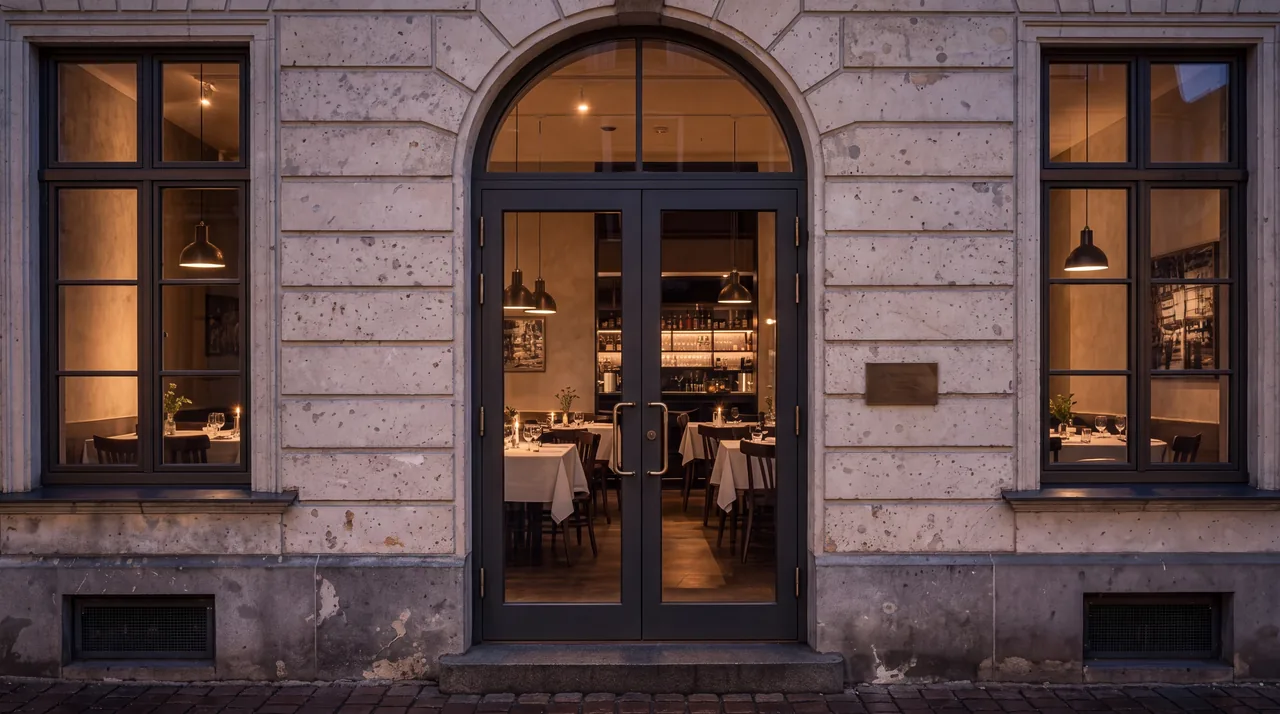
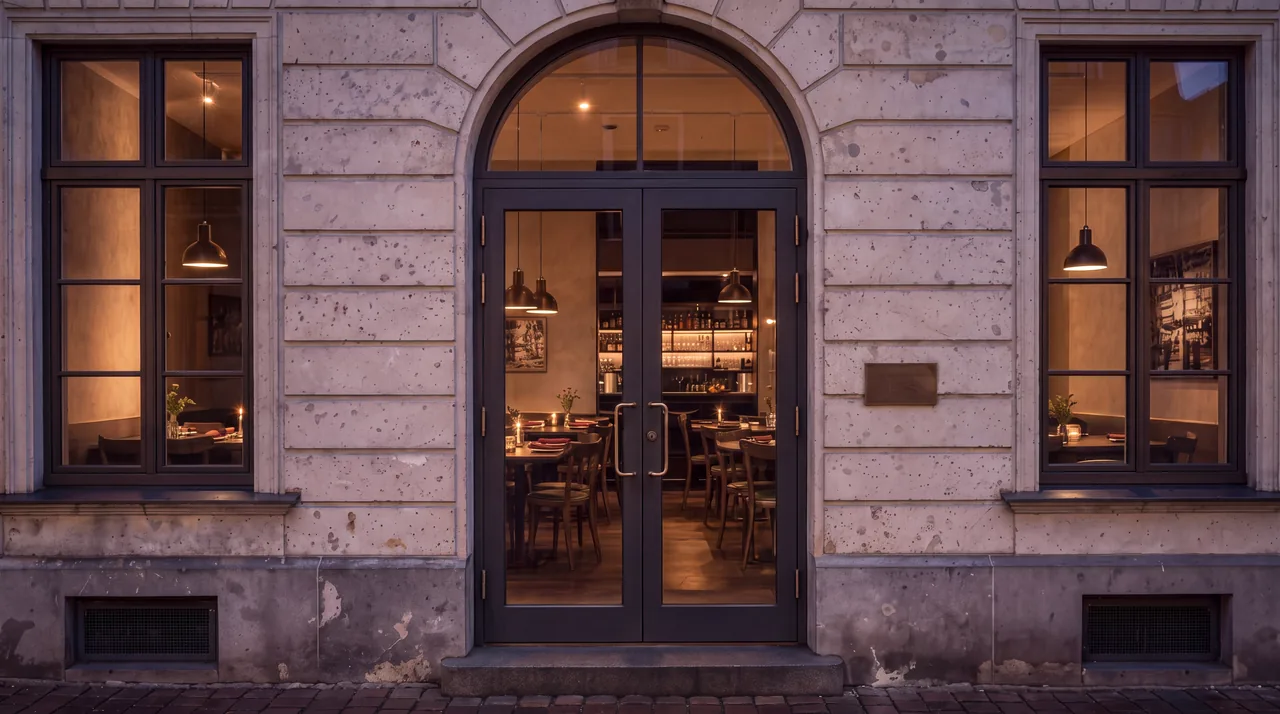
Audit pass: new kitchen photo, night finale, shorter dish→menu, tablecloth consistency, polish
Claude-Session: https://claude.ai/code/session_011vqFLFDv7vsNPGYrLaF2GH

diff --git a/main.js b/main.js
@@ -10,7 +10,7 @@
    door: the glass opening of the entrance, as seen in each photo
    plate: bounding box of the cut-out dish inside the table photo   */
 const ART = window.VESPER_ART || {
-  ext:   { w: 4096, h: 2304, door: { x: .4375, y: .272, w: .130, h: .453 }, arch: .245 },
+  ext:   { w: 5504, h: 3072, door: { x: .4375, y: .272, w: .130, h: .453 }, arch: .245 },
   door:  { w: 5504, h: 3072, door: { x: .369,  y: .054, w: .261, h: .842 }, arch: .222 },
   table: { w: 2528, h: 1696, plate:{ x: .1576, y: .3416, w: .6990, h: .5766 } },
 };
@@ -68,10 +68,11 @@ function status() {
   const h = +parts.hour, open = ['Tue', 'Wed', 'Thu', 'Fri', 'Sat'];
   const today = parts.weekday, yesterday = { Sun: 'Sat', Mon: 'Sun', Tue: 'Mon', Wed: 'Tue', Thu: 'Wed', Fri: 'Thu', Sat: 'Fri' }[today];
   const time = `${parts.hour}:${parts.minute}`;
+  const short = innerWidth < 761;
   let msg;
   if ((open.includes(today) && h >= 18) || (open.includes(yesterday) && h < 1)) msg = `Riga ${time} · <span style="color:var(--amber)">●</span> Open now`;
-  else if (open.includes(today)) msg = `Riga ${time} · Doors open tonight at 18:00`;
-  else msg = `Riga ${time} · Closed tonight · Opens Tuesday, 18:00`;
+  else if (open.includes(today)) msg = short ? `Riga ${time} · Open from 18:00` : `Riga ${time} · Doors open tonight at 18:00`;
+  else msg = short ? `Riga ${time} · Opens Tue, 18:00` : `Riga ${time} · Closed tonight · Opens Tuesday, 18:00`;
   el.innerHTML = msg;
 }
 
@@ -190,36 +191,36 @@ function table(p, t) {
   const menuC = mobile ? { x: vw * .5, y: vh * .72 } : { x: vw * .73, y: vh * .52 };
   const menuS = mobile ? .62 : .55;
 
-  // 0 → .1  framed image opens to full bleed
-  const open = easeOut(map(p, 0, .1));
+  // One continuous move, ~2 viewport heights of scrolling in total:
+  // 0 → .14 frame opens · 0 → .30 camera approaches · .12 → .36 room falls away, plate lifts
+  // .30 → .56 the dish holds (copy + depth) · .56 → .80 plate settles into the menu · .80 → 1 menu opening
+  const open = easeOut(map(p, 0, .14));
   const ix = lerp(mobile ? 6 : 16, 0, open), iy = lerp(mobile ? 14 : 13, 0, open);
   T.cam.style.clipPath = RM ? 'none' : `inset(${iy}vh ${ix}vw ${iy}vh ${ix}vw)`;
 
-  // .04 → .42  the camera walks toward the plate (never uncovering the frame)
-  const a = ease(map(p, .04, .42));
+  const a = ease(map(p, 0, .3));
   const Z = RM ? 1 : lerp(1, PUSH(), a);
   let tx = lerp(P.x, heroC.x, a) - P.x * Z, ty = lerp(P.y, heroC.y, a) - P.y * Z;
   tx = clamp(tx, vw - vw * Z, 0); ty = clamp(ty, vh - vh * Z, 0);
   const F = { x: tx + P.x * Z, y: ty + P.y * Z };
   T.cam.style.transform = RM ? 'none' : camT(P, F, Z);
 
-  // label
-  const lo = map(p, .015, .06) * (1 - map(p, .14, .2));
+  // label: already readable as the table arrives, gone before the plate lifts
+  const lo = 1 - map(p, .06, .13);
   T.label.style.opacity = lo;
-  T.label.style.transform = `translate3d(0, ${(1 - map(p, .015, .08)) * 24}px, 0)`;
-  T.label.classList.toggle('is-in', p > .015 && p < .2);
+  T.label.style.transform = `translate3d(0, ${-map(p, .06, .13) * 16}px, 0)`;
 
   // the room falls away
-  const fall = map(p, .34, .5);
-  T.shade.style.opacity = RM ? map(p, .3, .45) : fall;
-  T.cam.style.filter = fall > 0 && fall < 1 && !RM ? `blur(${fall * 10}px)` : '';
-  T.cam.style.opacity = 1 - map(p, .48, .52);
+  const fall = map(p, .14, .32);
+  T.shade.style.opacity = fall;
+  T.cam.style.filter = fall > 0 && fall < 1 && !RM ? `blur(${fall * 8}px)` : '';
+  T.cam.style.opacity = 1 - map(p, .3, .34);
 
   // the dish: glued to the photograph, then it lifts and becomes the object
   const glued = { x: F.x + (R0.x - P.x) * Z, y: F.y + (R0.y - P.y) * Z, w: R0.w * Z, h: R0.h * Z };
   let rect = glued;
-  const lift = ease(map(p, .38, .6));
-  const go = ease(map(p, .74, .86));
+  const lift = ease(map(p, .12, .36));
+  const go = ease(map(p, .56, .8));
   if (go > 0) {
     const w = hero.w * lerp(1.03, menuS, go), h = hero.h * lerp(1.03, menuS, go);
     const cx = lerp(heroC.x, menuC.x, go), cy = lerp(heroC.y - hero.h * .03, menuC.y, go);
@@ -230,15 +231,15 @@ function table(p, t) {
     const cx = lerp(glued.x + glued.w / 2, heroC.x, lift), cy = lerp(glued.y + glued.h / 2, heroC.y - hero.h * .03, lift);
     rect = { x: cx - w / 2, y: cy - h / 2, w, h };
   }
-  const float = RM ? 0 : Math.sin(t * .0009) * 4 * lift * (1 - go);
+  const float = RM ? 0 : Math.sin(t * .0009) * 3 * lift * (1 - go);
   if (RM) {
-    const k = p < .74 ? 1 : menuS, w = hero.w * k, h = hero.h * k, c = p < .74 ? heroC : menuC;
+    const k = p < .56 ? 1 : menuS, w = hero.w * k, h = hero.h * k, c = p < .56 ? heroC : menuC;
     rect = { x: c.x - w / 2, y: c.y - h / 2, w, h };
   }
   T.dish.style.transform = `translate3d(${rect.x}px, ${rect.y + float}px, 0) scale(${rect.w / hero.w})`;
-  T.dish.style.opacity = RM ? map(p, .35, .45) : (p > .3 ? 1 : 0);
-  T.shadow.style.opacity = map(p, .36, .52) * .9;
-  T.dish.dataset.live = p > .3 && p < .995 ? '1' : '0';
+  T.dish.style.opacity = RM ? map(p, .2, .3) : (p > .1 ? 1 : 0);
+  T.shadow.style.opacity = map(p, .16, .34) * .9;
+  T.dish.dataset.live = p > .1 && p < .995 ? '1' : '0';
 
   // subtle physical response to the cursor (auto-drift on touch)
   if (!RM) {
@@ -252,17 +253,17 @@ function table(p, t) {
   }
 
   // copy
-  const co = map(p, .5, .58) * (1 - map(p, .72, .77));
+  const co = map(p, .28, .36) * (1 - map(p, .54, .6));
   T.copy.style.opacity = co;
-  T.copy.style.transform = mobile ? `translate3d(0, ${(1 - map(p, .5, .6)) * 20}px, 0)` : `translate3d(0, calc(-50% + ${(1 - map(p, .5, .6)) * 20}px), 0)`;
-  T.copy.classList.toggle('is-in', p > .5 && p < .76);
+  T.copy.style.transform = mobile ? `translate3d(0, ${(1 - map(p, .28, .38)) * 18}px, 0)` : `translate3d(0, calc(-50% + ${(1 - map(p, .28, .38)) * 18}px), 0)`;
+  T.copy.classList.toggle('is-in', p > .28 && p < .6);
   T.copy.classList.toggle('is-live', co > .6);
 
-  const mo = map(p, .82, .9);
+  const mo = map(p, .66, .8);
   T.open.style.opacity = mo;
-  T.open.classList.toggle('is-in', p > .82);
+  T.open.classList.toggle('is-in', p > .66);
 
-  steam && steam.active(p > .45 && p < .8 ? lift * (1 - go) : 0);
+  steam && steam.active(p > .3 && p < .64 ? lift * (1 - go) : 0);
 }
 
 /* ==========================================================
@@ -406,13 +407,13 @@ function plateParallax() {
 /* ==========================================================
    NIGHT + OUTRO
    ========================================================== */
-const nightBg = $('[data-night-bg] img'), outroImg = $('[data-outro-img] img'), night = $('#night');
+const nightBg = $('[data-night-bg] img'), outroImg = $('[data-outro-img] img'), night = $('#reserve');
 function nightFx() {
   if (RM) return;
   const r = night.getBoundingClientRect();
   if (r.bottom > 0 && r.top < vh) nightBg.style.transform = `translate3d(0, ${((r.top + r.height / 2) - vh / 2) * -.08}px, 0) scale(1.06)`;
   const o = stages.find(s => s.id === 'outro');
-  if (o) outroImg.style.transform = `scale(${lerp(1.35, 1.0, easeOut(o.p))})`;   // stepping back into the street
+  if (o) outroImg.style.transform = `scale(${lerp(1.16, 1.0, easeOut(o.p))})`;   // a slow step back into the street
 }
 
 /* ==========================================================
@@ -432,7 +433,9 @@ function chrome() {
   chBar.parentElement.style.setProperty('--cp', clamp((vh * .5 - r.top) / r.height).toFixed(3));
   // hide over the dish copy and the hero title (they already speak)
   const arr = stages[0];
-  chEl.classList.toggle('is-hidden', arr.p < .1 || y > document.documentElement.scrollHeight - vh * 1.4);
+  // only shown in the cinematic chapters; it would compete with the menu and the form
+  const quiet = ['menu', 'reserve'].some(id => { const r = document.getElementById(id).getBoundingClientRect(); return r.top < vh * .9 && r.bottom > vh * .1; });
+  chEl.classList.toggle('is-hidden', arr.p < .1 || quiet);
   // nav: out of the way while descending, back when the visitor looks up
   const dy = y - lastY;
   if (Math.abs(dy) > 4) { nav.classList.toggle('is-hidden', dy > 0 && y > vh * .4 && !sheetOpen); lastY = y; }
@@ -458,7 +461,7 @@ function jump(e) {
   let y = null;
   const arr = stages.find(s => s.id === 'arrival'), tab = stages.find(s => s.id === 'table');
   if (href === '#room' && e.currentTarget.hasAttribute('data-enter')) y = arr.top + (arr.h - vh) * .93;   // walk in
-  else if (href === '#menu' && e.currentTarget.hasAttribute('data-to-menu')) y = tab.top + (tab.h - vh) * .93;
+  else if (href === '#menu' && e.currentTarget.hasAttribute('data-to-menu')) y = tab.top + (tab.h - vh) * .9;
   else if (href === '#top') y = 0;
   else { const t = $(href); if (t) y = t.getBoundingClientRect().top + scrollY - (href === '#reserve' ? 40 : 0); }
   if (y == null) return;
@@ -583,7 +586,7 @@ function frame(t) {
 
 /* reveal-on-enter */
 const rio = new IntersectionObserver(es => es.forEach(e => { if (e.isIntersecting) { e.target.classList.add('is-in'); rio.unobserve(e.target); } }), { threshold: .18 });
-$$('[data-reveal], .night__head, .outro__copy').forEach(el => rio.observe(el));
+$$('[data-reveal], .night__head, .finale__copy').forEach(el => rio.observe(el));
 
 function resize() { measure(); sizeDish(); }
 addEventListener('resize', () => { resize(); }, { passive: true });

diff --git a/index.html b/index.html
@@ -125,10 +125,10 @@
     <figure class="plate plate--b" data-reveal>
       <div class="plate__img"><img loading="lazy" decoding="async"
         src="assets/web/kitchen-hearth-1200.webp" srcset="assets/web/kitchen-hearth-800.webp 800w, assets/web/kitchen-hearth-1200.webp 1200w, assets/web/kitchen-hearth-1800.webp 1800w"
-        sizes="(max-width: 760px) 92vw, 38vw" alt="A cook's hands placing dill on a plate at the pass, the wood hearth glowing behind."></div>
+        sizes="(max-width: 760px) 92vw, 38vw" alt="At the pass during service: a cook wipes the rim of the plate before the cod goes out, order tickets and the hearth behind."></div>
       <figcaption>
-        <p class="meta">The Hearth</p>
-        <p>Birch, alder and apple wood. Almost everything we cook passes the fire — briefly, or for hours.</p>
+        <p class="meta">The Kitchen</p>
+        <p>Birch, alder and apple wood. Almost everything we cook passes the fire, then the pass, then a last wipe of the rim.</p>
       </figcaption>
     </figure>
   </div>
@@ -174,7 +174,7 @@
 
     <div class="menuopen" data-menuopen>
       <p class="meta">04 — The Menu · Autumn</p>
-      <h2 class="display"><span class="line"><span>The Menu</span></span></h2>
+      <h2 class="display display--m"><span class="line"><span>The Menu</span></span></h2>
       <div class="menuopen__feat">
         <p class="meta">Tonight's signature</p>
         <p class="menuopen__name">Baltic cod, brown butter, charred leek</p>
@@ -253,18 +253,33 @@
   <div class="menu__peek" data-peek aria-hidden="true"><img alt=""></div>
 </section>
 
-<!-- ============ 05 THE NIGHT — reservation ============ -->
-<section class="night" id="night" data-chapter-id="05|The Night" aria-labelledby="night-title">
+<!-- ============ 05 THE NIGHT — the evening, from the street ============ -->
+<section class="finale" id="night" data-stage="outro" data-chapter-id="05|The Night" aria-labelledby="finale-title">
+  <div class="finale__img" data-outro-img>
+    <img loading="lazy" decoding="async" src="assets/web/exterior-night-1920.webp"
+      srcset="assets/web/exterior-night-960.webp 960w, assets/web/exterior-night-1920.webp 1920w, assets/web/exterior-night-2880.webp 2880w"
+      sizes="100vw" alt="Vesper late at night: candlelit tables glowing behind the arched door, guests still at dinner, the cobbles wet with light.">
+  </div>
+  <div class="finale__copy wrap">
+    <p class="meta">05 — The Night</p>
+    <h2 class="display" id="finale-title"><span class="line"><span>An evening</span></span><span class="line"><span><em>worth staying for.</em></span></span></h2>
+    <p class="finale__lede">Dinner from six. The fire is left to burn down slowly, the wine stays open, and the bar keeps its lights on until one.</p>
+    <a class="btn-line btn-line--lg" href="#reserve">Reserve a table <span aria-hidden="true">→</span></a>
+  </div>
+</section>
+
+<!-- ============ RESERVATION ============ -->
+<section class="night" id="reserve" aria-labelledby="night-title">
   <div class="night__bg" data-night-bg>
     <img loading="lazy" decoding="async" src="assets/web/table-candle-detail-1920.webp"
       srcset="assets/web/table-candle-detail-960.webp 960w, assets/web/table-candle-detail-1920.webp 1920w"
       sizes="100vw" alt="">
   </div>
-  <div class="night__inner wrap" id="reserve">
+  <div class="night__inner wrap">
     <div class="night__head">
-      <p class="meta">05 — The Night</p>
-      <h2 class="display" id="night-title"><span class="line"><span>Stay for</span></span><span class="line"><span><em>the evening.</em></span></span></h2>
-      <p class="night__lede">We keep twelve tables and a counter for walk-ins. Tables are held for two and a half hours — longer, if the night asks for it.</p>
+      <p class="meta">Reservations</p>
+      <h2 class="display display--m" id="night-title"><span class="line"><span>Choose</span></span><span class="line"><span><em>your evening.</em></span></span></h2>
+      <p class="night__lede">Twelve tables, plus a counter kept for walk-ins. A table is yours for two and a half hours, and longer if the night asks for it.</p>
     </div>
 
     <form class="res" data-res novalidate>
@@ -285,9 +300,9 @@
             <button type="button" data-guests="1" aria-label="More guests">+</button>
           </div>
         </fieldset>
-        <label class="res__f res__name">
+        <label class="res__f res__name" for="res-name">
           <span class="meta">Name</span>
-          <input type="text" name="name" autocomplete="name" placeholder="Your name" required>
+          <input id="res-name" type="text" name="name" autocomplete="name" placeholder="Your name" required>
         </label>
       </div>
       <button class="btn-line btn-line--lg" type="submit">Reserve a table <span aria-hidden="true">→</span></button>
@@ -296,23 +311,13 @@
   </div>
 </section>
 
-<!-- ============ OUTRO — leaving into the street ============ -->
-<section class="outro" data-stage="outro" aria-label="Good night">
-  <div class="outro__img" data-outro-img>
-    <img loading="lazy" decoding="async" src="assets/web/exterior-blue-hour-1920.webp"
-      srcset="assets/web/exterior-blue-hour-960.webp 960w, assets/web/exterior-blue-hour-1920.webp 1920w" sizes="100vw" alt="">
-  </div>
-  <div class="outro__copy wrap">
-    <p class="display display--xl"><em>Good night.</em></p>
-  </div>
-  <footer class="foot wrap">
-    <div><p class="foot__brand">Vesper</p><p class="meta">Evening dining · Old Town, Riga</p></div>
-    <div><p class="meta">Hours</p><p>Tuesday — Saturday<br>Kitchen 18:00 — 22:30<br>Bar until 01:00</p></div>
-    <div><p class="meta">Find us</p><p>Old Town, Riga<br>Latvia</p></div>
-    <div><a class="btn-line" href="#reserve">Reserve a table <span aria-hidden="true">→</span></a></div>
-    <p class="foot__credit meta">Concept website — art direction, UX/UI &amp; imagery by Marta Jakovleva. Vesper is a fictional restaurant.</p>
-  </footer>
-</section>
+<footer class="foot wrap">
+  <div><p class="foot__brand">Vesper</p><p class="meta">Evening dining · Old Town, Riga</p></div>
+  <div><p class="meta">Hours</p><p>Tuesday — Saturday<br>Kitchen 18:00 — 22:30<br>Bar until 01:00</p></div>
+  <div><p class="meta">Find us</p><p>Old Town, Riga<br>Latvia</p></div>
+  <div><a class="btn-line" href="#reserve">Reserve a table <span aria-hidden="true">→</span></a></div>
+  <p class="foot__credit meta">Concept website — art direction, UX/UI &amp; imagery by Marta Jakovleva. Vesper is a fictional restaurant.</p>
+</footer>
 
 </main>
 

diff --git a/styles.css b/styles.css
@@ -59,7 +59,7 @@ body::after{
 }
 .display em{color:var(--stone)}
 .display--s{font-size:clamp(34px, 4.6vw, 72px)}
-.display--xl{font-size:clamp(72px, 15vw, 260px)}
+.display--m{font-size:clamp(44px, 6vw, 104px)}
 .line{display:block;overflow:hidden;padding-bottom:.08em;margin-bottom:-.08em}
 .line>span{display:inline-block;transform:translateY(105%);transition:transform 1.4s var(--ease-out)}
 .is-in .line>span{transform:none}
@@ -142,8 +142,8 @@ body:not(.is-loading) .loader{opacity:0;visibility:hidden}
    ========================================================== */
 .stage{position:relative}
 .stage__pin{position:sticky;top:0;height:100vh;height:100svh;overflow:hidden;background:var(--black)}
-.stage--arrival{height:520vh}
-.stage--table{height:640vh}
+.stage--arrival{height:380vh}
+.stage--table{height:300vh}
 
 .cam,.layer,.tcam{position:absolute;inset:0}
 .layer img,.tcam__img{width:100%;height:100%;object-fit:cover;will-change:transform}
@@ -211,9 +211,9 @@ body:not(.is-loading) .loader{opacity:0;visibility:hidden}
 .dishcopy__title{font-family:var(--serif);font-weight:400;font-size:clamp(46px, 4.8vw, 84px);line-height:.95;margin:0;letter-spacing:-.01em}
 .dishcopy__title em{display:block;font-size:.5em;line-height:1.15;color:var(--stone);margin-top:.35em;letter-spacing:0}
 .dishcopy__desc{margin:0;color:var(--cream-dim);max-width:34ch}
-.dishcopy__tags{list-style:none;margin:0;padding:16px 0 0;border-top:1px solid var(--cream-faint);display:flex;flex-wrap:wrap;gap:6px 22px;font-size:11px;letter-spacing:.14em;text-transform:uppercase;color:var(--cream-dim)}
+.dishcopy__tags{list-style:none;margin:0;padding:16px 0 0;border-top:1px solid var(--cream-faint);display:flex;flex-wrap:wrap;gap:6px 20px;font-size:11px;letter-spacing:.14em;text-transform:uppercase;color:var(--cream-dim)}
 .dishcopy__tags li{position:relative}
-.dishcopy__tags li+li::before{content:"";position:absolute;left:-13px;top:50%;width:3px;height:3px;border-radius:50%;background:var(--bronze);transform:translateY(-50%)}
+
 .dishcopy .btn-line{justify-self:start}
 
 .menuopen{
@@ -264,10 +264,10 @@ body:not(.is-loading) .loader{opacity:0;visibility:hidden}
 .menu__index a.is-on::before{width:22px}
 .menu__note{margin:30px 0 0;font-size:12px;line-height:1.7;color:var(--cream-dim)}
 
-.mcat{padding-top:10vh}
+.mcat{padding-top:8vh}
 .mcat:first-child{padding-top:0}
 .mcat__head{display:flex;justify-content:space-between;align-items:baseline;border-bottom:1px solid var(--cream-faint);padding-bottom:18px;margin-bottom:8px}
-.mcat__head h3{font-family:var(--serif);font-weight:400;font-size:clamp(40px,5vw,84px);line-height:1;margin:0;letter-spacing:-.01em}
+.mcat__head h3{font-family:var(--serif);font-weight:400;font-size:clamp(32px,3.4vw,52px);line-height:1;margin:0;letter-spacing:-.005em}
 .mcat ul{list-style:none;margin:0;padding:0}
 .mi{padding:22px 0 20px;border-bottom:1px solid rgba(237,230,218,.08);position:relative;cursor:default}
 .mi__row{display:flex;justify-content:space-between;align-items:baseline;gap:24px}
@@ -292,7 +292,7 @@ body:not(.is-loading) .loader{opacity:0;visibility:hidden}
 /* ==========================================================
    05 NIGHT / RESERVATION
    ========================================================== */
-.night{position:relative;min-height:100vh;padding:20vh 0 18vh;overflow:hidden}
+.night{position:relative;padding:16vh 0 16vh;overflow:hidden}
 .night__bg{position:absolute;inset:-10% 0;z-index:0}
 .night__bg img{width:100%;height:100%;object-fit:cover;opacity:.55;will-change:transform}
 .night__bg::after{content:"";position:absolute;inset:0;background:linear-gradient(90deg, rgba(14,12,10,.95) 0%, rgba(14,12,10,.7) 45%, rgba(14,12,10,.2) 100%),linear-gradient(180deg, var(--black) 0%, rgba(14,12,10,0) 25%, rgba(14,12,10,0) 70%, var(--black) 100%)}
@@ -331,12 +331,17 @@ body:not(.is-loading) .loader{opacity:0;visibility:hidden}
 /* ==========================================================
    OUTRO
    ========================================================== */
-.outro{position:relative;min-height:120vh;display:flex;flex-direction:column;justify-content:flex-end;overflow:hidden}
-.outro__img{position:absolute;inset:0}
-.outro__img img{width:100%;height:100%;object-fit:cover;will-change:transform;filter:brightness(.62) saturate(.9)}
-.outro__img::after{content:"";position:absolute;inset:0;background:linear-gradient(180deg, var(--black) 0%, rgba(14,12,10,0) 30%, rgba(14,12,10,.2) 55%, rgba(14,12,10,.95) 100%)}
-.outro__copy{position:relative;z-index:1;margin-bottom:8vh}
-.foot{position:relative;z-index:1;display:grid;grid-template-columns:1.4fr 1fr 1fr auto;gap:var(--gutter);padding-top:28px;padding-bottom:34px;border-top:1px solid var(--cream-faint);margin:0 var(--gutter);padding-left:0;padding-right:0}
+.finale{position:relative;min-height:115vh;display:flex;align-items:flex-end;overflow:hidden;padding-bottom:16vh}
+.finale__img{position:absolute;inset:0}
+.finale__img img{width:100%;height:100%;object-fit:cover;object-position:50% 45%;will-change:transform;transform-origin:50% 45%}
+.finale__img::after{content:"";position:absolute;inset:0;background:
+  linear-gradient(180deg, var(--black) 0%, rgba(14,12,10,0) 24%, rgba(14,12,10,0) 46%, rgba(14,12,10,.82) 80%, var(--black) 100%),
+  linear-gradient(90deg, rgba(14,12,10,.5) 0%, rgba(14,12,10,0) 60%)}
+.finale__copy{position:relative;z-index:1;display:grid;gap:22px;justify-items:start;max-width:1100px}
+.finale .display{font-size:clamp(52px, 6.4vw, 112px)}
+.finale__lede{margin:0;color:var(--cream-dim);max-width:44ch;font-size:16px}
+.finale .btn-line{margin-top:6px}
+.foot{position:relative;z-index:1;display:grid;grid-template-columns:1.4fr 1fr 1fr auto;gap:var(--gutter);padding-top:28px;padding-bottom:34px;border-top:1px solid var(--cream-faint);margin:0 var(--gutter);padding-left:0;padding-right:0;background:var(--black)}
 .foot p{margin:0;font-size:13px;color:var(--cream-dim)}
 .foot .meta{margin-bottom:8px}
 .foot__brand{font-family:var(--serif);font-size:34px !important;color:var(--cream) !important;line-height:1}
@@ -376,8 +381,8 @@ body:not(.is-loading) .loader{opacity:0;visibility:hidden}
   .hero__enter{grid-column:1/-1;grid-row:1}
   .hero__title{font-size:clamp(84px, 27vw, 160px)}
   .chapter{bottom:16px}
-  .stage--arrival{height:440vh}
-  .stage--table{height:560vh}
+  .stage--arrival{height:320vh}
+  .stage--table{height:250vh}
   .mi[data-img]{display:grid;grid-template-columns:1fr 64px;gap:0 16px;align-items:start}
   .mi[data-img] .mi__name::after{display:none}
   .mi[data-img]>*{grid-column:1}

diff --git a/tools/process.py b/tools/process.py
@@ -22,6 +22,7 @@ WIDE = {  # full-bleed images: 960 / 1920 / 2880
     "interior-main": (960, 1920, 2880),
     "table-signature": (960, 1920, 2880),
     "table-candle-detail": (960, 1920),
+    "exterior-night": (960, 1920, 2880),
 }
 PORTRAIT = {  # editorial 4:5
     "bar": (800, 1200, 1800),

diff --git a/docs/visual-bible.md b/docs/visual-bible.md
@@ -127,3 +127,10 @@ Reject: warped verticals, melted cutlery, deformed plate rims, impossible reflec
 Magnific's upscaler on ImagineArt could not be used: the account's free daily ImagineArt credits ran out after the first generation round. The 4K hero upscale was done on Higgsfield instead.
 
 Deviation from the bible, kept on purpose: the glimpse of the dining room through the street-facing glass shows white tablecloths, while the interior has bare oak. The detail is tiny and the interior is revealed through the doorway mask, so it never reads as a mismatch.
+
+## 8. Audit + polish pass (v2)
+
+- **Kitchen image replaced.** v1 (tweezers + dill) had hands that read as generated. Higgsfield made 4 new candidates: basting in the pan, spooning sauce, and 2 of setting the plate down. Two were rejected: one had a floating saucepan and a third arm, the other an unnatural spoon grip. The keeper is a cook wiping the rim of the cod plate at the pass, with order tickets and a heat lamp behind, both hands on the plate.
+- **Tablecloths removed** from the street and door photos with a Nano Banana Pro edit. An overlay check against the originals showed nothing else moved, so the door coordinates still hold. The room seen through the glass now matches the interior: bare oak, candles, oxblood napkins.
+- **New exterior-night**: the same frame later in the evening, with guests as soft silhouettes inside. It closes the site under "An evening worth staying for."
+- **Motion**: the dish → menu stage went from 640vh to 300vh on desktop and from 560vh to 250vh on phones. The walk-in went from 520 to 380vh (desktop) and from 440 to 320vh (phones).
